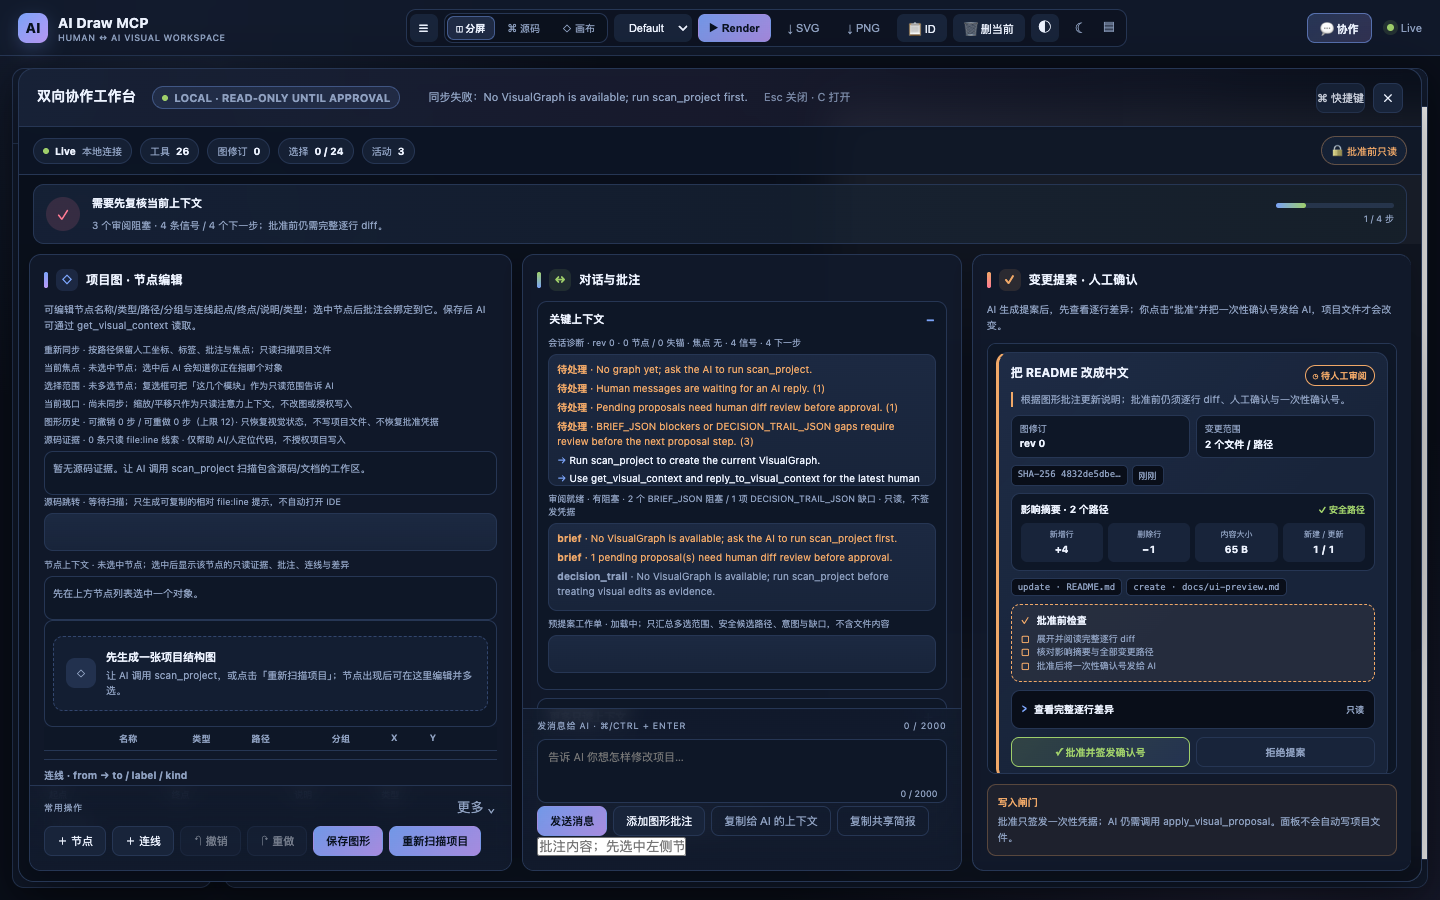
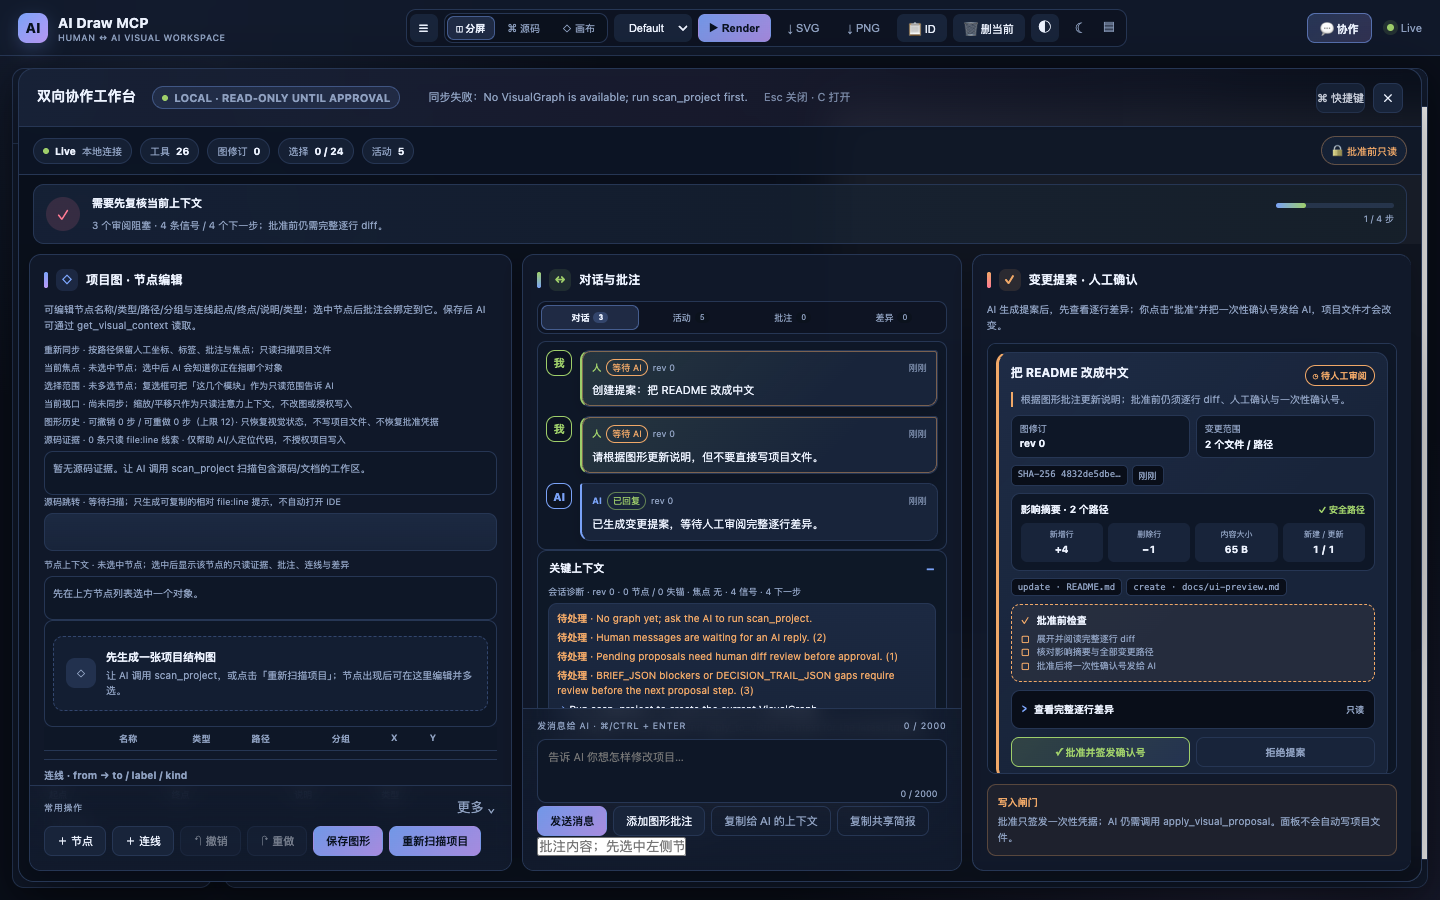
feat: bring conversation bubbles to the foreground

Changed region(s): [[0.375, 0.3111, 0.6562, 0.7778]]

diff --git a/src/infra/templates/index.html b/src/infra/templates/index.html
@@ -421,11 +421,14 @@
     .signal-drawer .drawer-body { padding: 0 10px 10px; }
     .signal-drawer .diagnostics-list { margin-bottom: 6px; }
     .history-tabs { display: flex; gap: 4px; margin: 0 0 7px; padding: 3px; border: 1px solid var(--border); border-radius: 9px; background: rgba(9,14,25,.42); }
-    .history-tab { flex: 1; height: 25px; padding: 0 5px; border: 1px solid transparent; border-radius: 7px; background: transparent; color: var(--text-muted); font-size: 9px; cursor: pointer; }
+    .history-tab { flex: 1; height: 25px; padding: 0 5px; border: 1px solid transparent; border-radius: 7px; background: transparent; color: var(--text-muted); font-size: 9px; cursor: pointer; display: flex; align-items: center; justify-content: center; gap: 4px; }
     .history-tab.active { background: rgba(122,162,247,.16); border-color: rgba(122,162,247,.42); color: var(--text); font-weight: 700; }
+    .history-tab-count { min-width: 15px; padding: 1px 4px; border-radius: 999px; background: rgba(9,14,25,.45); color: var(--text-muted); font-size: 8px; font-variant-numeric: tabular-nums; }
+    .history-tab[data-has-pending="true"] .history-tab-count { background: rgba(240,168,104,.18); color: var(--orange); }
+    .history-tab.active .history-tab-count { background: rgba(122,162,247,.22); color: var(--text); }
     .history-pane { display: none; }
     .history-pane.active { display: block; }
-    .history-pane > .chat-log { max-height: 220px; }
+    .history-pane > .chat-log { min-height: 180px; max-height: 260px; }
     .shortcut-hint { color: var(--text-muted); font-size: 10px; opacity: .82; }
     .collab-backdrop { position: absolute; inset: 0; z-index: 1001; pointer-events: none; }
     .collab-shell { z-index: 1002; }
@@ -459,11 +462,31 @@
     .graph-guide-icon { width: 30px; height: 30px; display: grid; place-items: center; border-radius: 9px; background: rgba(122,162,247,.14); color: var(--accent); font-size: 15px; flex-shrink: 0; }
     .graph-guide strong { display: block; color: var(--text); font-size: 11px; margin-bottom: 3px; }
     .graph-guide span { color: var(--text-muted); font-size: 10px; line-height: 1.5; }
-    .chat-item { padding: 8px 9px; margin-bottom: 7px; border-radius: 8px; background: var(--surface2); font-size: 11px; line-height: 1.5; border: 1px solid transparent; }
-    .chat-item .meta { display: block; color: var(--text-muted); font-size: 9px; margin-bottom: 3px; }
-    .chat-item.human { border-left: 2px solid var(--green); }
-    .chat-item.ai { border-left: 2px solid var(--accent); }
-    .chat-item.pending { box-shadow: inset 0 0 0 1px var(--orange); }
+    #chatLog { display: flex; flex-direction: column; gap: 9px; }
+    .chat-empty { display: flex; flex-direction: column; align-items: center; justify-content: center; gap: 7px; min-height: 150px; padding: 18px; border: 1px dashed rgba(122,162,247,.28); border-radius: 11px; background: radial-gradient(circle at 50% 0%, rgba(122,162,247,.08), transparent 65%), var(--panel); color: var(--text-muted); text-align: center; }
+    .chat-empty-icon { display: grid; place-items: center; width: 36px; height: 36px; border-radius: 12px; background: rgba(122,162,247,.14); color: var(--accent); font-size: 18px; }
+    .chat-empty strong { color: var(--text); font-size: 11px; }
+    .chat-empty p { font-size: 10px; line-height: 1.6; max-width: 250px; }
+    .chat-item { --chat-accent: var(--accent); display: grid; grid-template-columns: 26px minmax(0, 1fr); gap: 8px; align-items: start; animation: chat-in .22s ease both; }
+    .chat-item.human { --chat-accent: var(--green); }
+    .chat-item.ai { --chat-accent: var(--accent); }
+    .chat-item.system { --chat-accent: var(--text-muted); grid-template-columns: 1fr; }
+    @keyframes chat-in { from { opacity: 0; transform: translateY(4px); } to { opacity: 1; transform: none; } }
+    .chat-avatar { display: grid; place-items: center; width: 26px; height: 26px; border: 1px solid var(--chat-accent); border-radius: 9px; background: rgba(9,14,25,.42); color: var(--chat-accent); font-size: 11px; font-weight: 800; }
+    body.theme-light .chat-avatar { background: #fff; }
+    .chat-bubble { position: relative; min-width: 0; padding: 8px 10px; border: 1px solid var(--border); border-left: 2px solid var(--chat-accent); border-radius: 3px 10px 10px 10px; background: var(--surface2); font-size: 11px; line-height: 1.55; word-break: break-word; box-shadow: 0 5px 14px rgba(0,0,0,.12); }
+    .chat-item.human .chat-bubble { border-radius: 10px 3px 10px 10px; background: linear-gradient(135deg, rgba(158,206,106,.10), transparent 70%), var(--surface2); }
+    .chat-item.system .chat-bubble { border-left-color: var(--border); border-radius: 9px; background: transparent; color: var(--text-muted); font-size: 10px; text-align: center; box-shadow: none; }
+    .chat-item.pending .chat-bubble { box-shadow: inset 0 0 0 1px rgba(240,168,104,.45), 0 5px 14px rgba(0,0,0,.12); }
+    .chat-meta { display: flex; align-items: center; flex-wrap: wrap; gap: 5px; margin-bottom: 5px; color: var(--text-muted); font-size: 9px; }
+    .chat-meta strong { color: var(--chat-accent); font-size: 9px; }
+    .chat-meta .chat-status { padding: 1px 5px; border: 1px solid var(--border); border-radius: 999px; }
+    .chat-item.pending .chat-meta .chat-status { border-color: var(--orange); color: var(--orange); }
+    .chat-meta .chat-status.answered, .chat-meta .chat-status.applied { border-color: rgba(158,206,106,.55); color: var(--green); }
+    .chat-meta .chat-status.rejected { border-color: rgba(255,122,147,.55); color: var(--red); }
+    .chat-meta time { margin-left: auto; opacity: .82; font-variant-numeric: tabular-nums; }
+    .evidence-item { padding: 7px 8px; margin-bottom: 5px; border-left: 2px solid var(--accent); border-radius: 6px; background: var(--surface2); font-size: 10px; line-height: 1.45; word-break: break-word; }
+    .evidence-meta { display: block; margin-bottom: 3px; color: var(--text-muted); font-size: 9px; }
     .proposal-list { display: flex; flex-direction: column; gap: 10px; }
     .proposal-card {
       --proposal-accent: var(--accent);
@@ -793,6 +816,16 @@
     <section class="collab-section">
       <h3><span class="section-icon" aria-hidden="true">↔</span>对话与批注</h3>
       <div class="section-scroll">
+      <div class="history-tabs" role="tablist" aria-label="对话历史视图">
+        <button class="history-tab active" type="button" data-history-target="chat" role="tab">对话 <span class="history-tab-count" data-history-count="chat">0</span></button>
+        <button class="history-tab" type="button" data-history-target="activity" role="tab">活动 <span class="history-tab-count" data-history-count="activity">0</span></button>
+        <button class="history-tab" type="button" data-history-target="annotations" role="tab">批注 <span class="history-tab-count" data-history-count="annotations">0</span></button>
+        <button class="history-tab" type="button" data-history-target="diffs" role="tab">差异 <span class="history-tab-count" data-history-count="diffs">0</span></button>
+      </div>
+      <div class="history-pane active" data-history-pane="chat"><div class="chat-log" id="chatLog"></div></div>
+      <div class="history-pane" data-history-pane="activity"><p class="activity-summary" id="activitySummary">活动时间线加载中…</p><div class="chat-log activity-list" id="activityList"></div></div>
+      <div class="history-pane" data-history-pane="annotations"><div class="chat-log" id="annotationList"></div></div>
+      <div class="history-pane" data-history-pane="diffs"><p class="activity-summary" id="graphDiffSummary">图形修订差异加载中…</p><div class="chat-log graph-diff-list" id="graphDiffList"></div></div>
       <details class="signal-drawer" open>
         <summary>关键上下文</summary>
         <div class="drawer-body">
@@ -815,19 +848,8 @@
           <div class="diagnostics-list" id="capabilitiesList"></div>
           <p class="activity-summary" id="selectionScopeSummary">选择范围上下文 · 加载中；只投影多选节点、内部连线与安全 file:line 证据</p>
           <div class="diagnostics-list" id="selectionScopeList"></div>
-          <p class="activity-summary" id="activitySummary">活动时间线加载中…</p>
         </div>
       </details>
-      <div class="history-tabs" role="tablist" aria-label="对话历史视图">
-        <button class="history-tab active" type="button" data-history-target="chat" role="tab">对话</button>
-        <button class="history-tab" type="button" data-history-target="activity" role="tab">活动</button>
-        <button class="history-tab" type="button" data-history-target="annotations" role="tab">批注</button>
-        <button class="history-tab" type="button" data-history-target="diffs" role="tab">差异</button>
-      </div>
-      <div class="history-pane active" data-history-pane="chat"><div class="chat-log" id="chatLog"></div></div>
-      <div class="history-pane" data-history-pane="activity"><p class="activity-summary" id="activitySummary">活动时间线加载中…</p><div class="chat-log activity-list" id="activityList"></div></div>
-      <div class="history-pane" data-history-pane="annotations"><div class="chat-log" id="annotationList"></div></div>
-      <div class="history-pane" data-history-pane="diffs"><p class="activity-summary" id="graphDiffSummary">图形修订差异加载中…</p><div class="chat-log graph-diff-list" id="graphDiffList"></div></div>
       </div>
       <div class="section-dock">
       <div class="dock-label"><span>发消息给 AI · ⌘/Ctrl + Enter</span><span id="messageCount">0 / 2000</span></div>
@@ -1835,10 +1857,7 @@ function renderSourceEvidence() {
   }
   if (!target) return;
   target.innerHTML = items.length ? items.slice(0, 20).map((item) => `
-    <div class="chat-item system">
-      <span class="meta">${escapeHtml(item.kind)} · ${escapeHtml(item.path)}:${escapeHtml(item.line)} · ${escapeHtml(item.nodeLabel || item.nodeId)}</span>
-      ${escapeHtml(item.excerpt)}
-    </div>
+    <div class="evidence-item"><span class="evidence-meta">${escapeHtml(item.kind)} · ${escapeHtml(item.path)}:${escapeHtml(item.line)} · ${escapeHtml(item.nodeLabel || item.nodeId)}</span>${escapeHtml(item.excerpt)}</div>
   `).join('') : '<div class="collab-help">暂无源码证据。让 AI 调用 scan_project 扫描包含源码/文档的工作区。</div>';
 }
 
@@ -1874,7 +1893,7 @@ async function renderNodeContext() {
       ...(context.graphDiffs || []).flatMap((diff) => diff.items.map((item) => `图形差异 · rev ${diff.toRevision} · ${item.entity}:${item.change} ${item.label || item.id}`)),
     ];
     target.innerHTML = lines.length
-      ? lines.slice(0, 20).map((line) => `<div class="chat-item system">${escapeHtml(line)}</div>`).join('')
+      ? lines.slice(0, 20).map((line) => `<div class="evidence-item">${escapeHtml(line)}</div>`).join('')
       : '<div class="collab-help">该节点暂无额外证据、批注、连线或图形差异。</div>';
   } catch (error) {
     summary.textContent = `节点上下文不可用：${error.message}`;
@@ -2099,13 +2118,38 @@ function removeEdge(index) {
 }
 
 function renderChat(messages) {
-  $('#chatLog').innerHTML = messages.map((message) => `
-    <div class="chat-item ${message.author} ${message.status || ''}">
-      <span class="meta">${escapeHtml(message.author)} · ${escapeHtml(message.createdAt)} · ${escapeHtml(message.status || '')}</span>
-      ${escapeHtml(message.body)}
-    </div>
-  `).join('');
+  const authorLabels = { human: '人', ai: 'AI', system: '系统' };
+  const authorIcons = { human: '我', ai: 'AI', system: '·' };
+  const statusLabels = { pending: '等待 AI', answered: '已回复', applied: '已应用', rejected: '已拒绝' };
+  const items = Array.isArray(messages) ? messages : [];
+  $('#chatLog').innerHTML = items.length ? items.map((message) => {
+    const author = Object.hasOwn(authorLabels, message.author) ? message.author : 'system';
+    const status = Object.hasOwn(statusLabels, message.status) ? message.status : '';
+    const statusLabel = status ? statusLabels[status] : '已完成';
+    const avatar = author === 'system' ? '' : `<span class="chat-avatar" aria-hidden="true">${authorIcons[author]}</span>`;
+    return `
+    <article class="chat-item ${author} ${status}">
+      ${avatar}
+      <div class="chat-bubble">
+        <div class="chat-meta">
+          <strong>${authorLabels[author]}</strong>
+          <span class="chat-status ${status}">${statusLabel}</span>
+          ${message.graphRevision !== undefined ? `<span>rev ${escapeHtml(message.graphRevision)}</span>` : ''}
+          <time datetime="${escapeHtml(message.createdAt)}">${escapeHtml(relativeTime(message.createdAt))}</time>
+        </div>
+        <div class="chat-body">${escapeHtml(message.body)}</div>
+      </div>
+    </article>`;
+  }).join('') : '<div class="chat-empty"><span class="chat-empty-icon">↔</span><strong>对话从这里开始</strong><p>告诉 AI 你想怎样修改项目；消息会作为只读意图进入上下文，项目写入仍需批准后的一次性确认号。</p></div>';
   $('#chatLog').scrollTop = $('#chatLog').scrollHeight;
+  updateHistoryCount('chat', items.length, items.some((message) => message.status === 'pending'));
+}
+
+function updateHistoryCount(name, count, hasPending = false) {
+  const badge = $(`[data-history-count="${name}"]`);
+  if (badge) badge.textContent = String(count);
+  const tab = $(`[data-history-target="${name}"]`);
+  if (tab) tab.dataset.hasPending = String(hasPending);
 }
 
 function renderActivity(timeline) {
@@ -2121,6 +2165,7 @@ function renderActivity(timeline) {
       ${escapeHtml(item.body)}
     </div>
   `).join('') : '<div class="collab-help">暂无活动。让 AI 扫描项目，或从消息与节点批注开始。</div>';
+  updateHistoryCount('activity', items.length, timeline?.nextActor === 'ai');
 }
 
 function renderDiagnostics(diagnostics) {
@@ -2253,6 +2298,7 @@ function renderGraphDiffs(diffs) {
     return `<details ${index === 0 ? 'open' : ''}><summary>${escapeHtml(label)}</summary><span class="graph-diff-meta">${escapeHtml(diff.source || 'human')} · ${escapeHtml(diff.createdAt || '')}</span>${changeHtml}</details>`;
   }).join('') : '<div class="collab-help">暂无图形修订。保存节点或连线后，这里会显示字段级差异。</div>';
   list.title = '只读差异视图不生成提案、不签发批准凭据，也不授权项目写入。';
+  updateHistoryCount('diffs', items.length);
 }
 
 function graphDiffEntityLabel(entity) {
@@ -2323,6 +2369,7 @@ function renderAnnotations(annotations) {
       if (event.key === 'Enter') sendAnnotationReply(input.closest('.annotation-thread')?.dataset.annotationId);
     });
   }
+  updateHistoryCount('annotations', annotations.length, annotations.some((annotation) => !annotation.resolved));
 }
 
 function annotationThreadNextActor(annotation) {

diff --git a/CHANGELOG.md b/CHANGELOG.md
@@ -12,6 +12,7 @@ The format is based on [Keep a Changelog](https://keepachangelog.com/en/1.1.0/),
 
 ### Maintenance
 
+- 对话历史体验（2026-11-06 10:50 CST）：把四个历史标签与消息列表提到中栏顶部，让双向对话成为工作台首屏焦点；消息改为人 / AI / 系统角色气泡，加入头像、中文状态徽章、相对时间、图修订标记、入场动画与空对话引导，四个标签增加实时计数与待处理高亮。源码证据/节点上下文改用独立的紧凑证据卡，避免与对话气泡混淆，并消除重复的 `activitySummary` ID。只改前端派生渲染与 CSS，不改会话数据、消息契约、WebSocket 事件或写入闸门；浏览器回归覆盖角色、状态、计数与证据卡样式，离线守卫同步覆盖新标记。
 - 提案卡片精修（2026-11-06 10:40 CST）：把变更提案重排为带状态色的审阅卡，增加中文状态徽章、图修订/范围指标、SHA-256 与相对时间、四格影响摘要、完整路径列表和批准前检查清单；逐行 diff 增加只读/已加载/失败状态与展开反馈，批准设为唯一主操作，决策中显示 busy 反馈。保留全部 `data-approve` / `data-reject` / `data-diff` / `data-impact` 与现有接口，不新增工具、不改批准协议或项目写入闸门；浏览器回归用临时会话内的示例提案覆盖真实卡片、影响摘要、diff 加载与操作层级，README 工作台截图同步展示提案卡片。
 - 历史信息分组（2026-11-06 10:30 CST）：把中栏「对话 / 活动 / 批注 / 图形差异」从垂直堆叠改为四个迷你标签页，默认显示对话；每个列表 ID、渲染函数和数据源保持不变，只改变可见性，降低滚动与视觉噪音。UI 回归验证四个标签与切换行为，离线守卫覆盖历史分组标记。
 - 图形编辑器可读性（2026-11-06 10:25 CST）：节点行改为表格化卡片，增加稳定行号、悬浮高亮、选中行左侧强调、固定表头与更清晰的输入框边界；空图形状态改为引导卡，提示调用 `scan_project` 或重新扫描项目。保留全部 `data-index`、`data-node-id`、输入 class 与选择/删除事件，不改图数据结构、保存逻辑或写入闸门；UI 回归与离线守卫覆盖空图形引导和固定表头。
